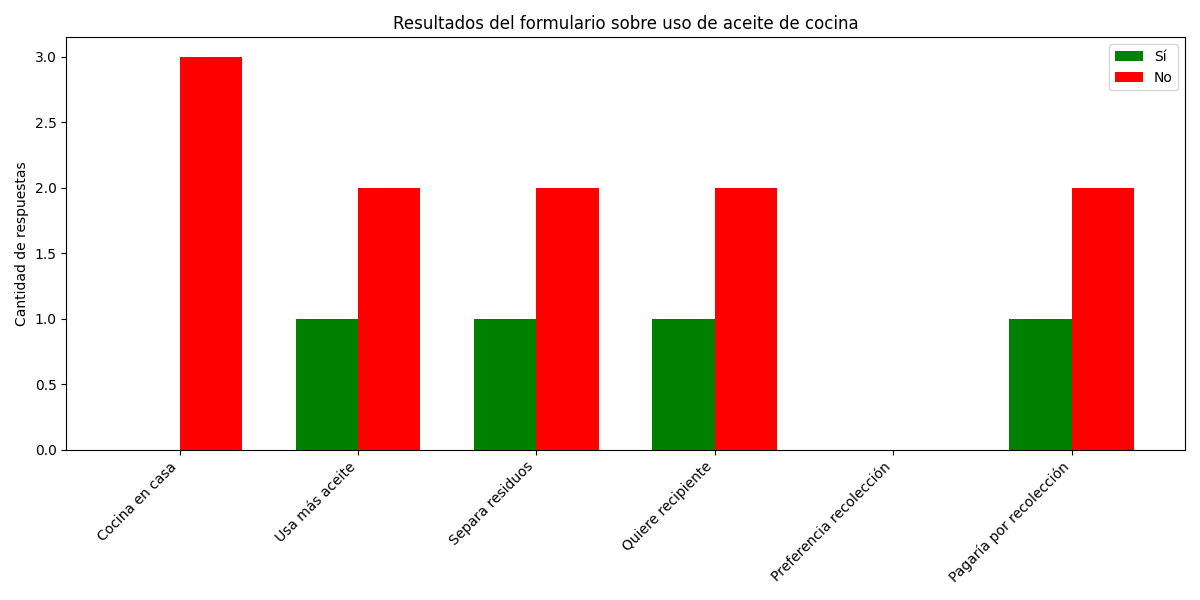
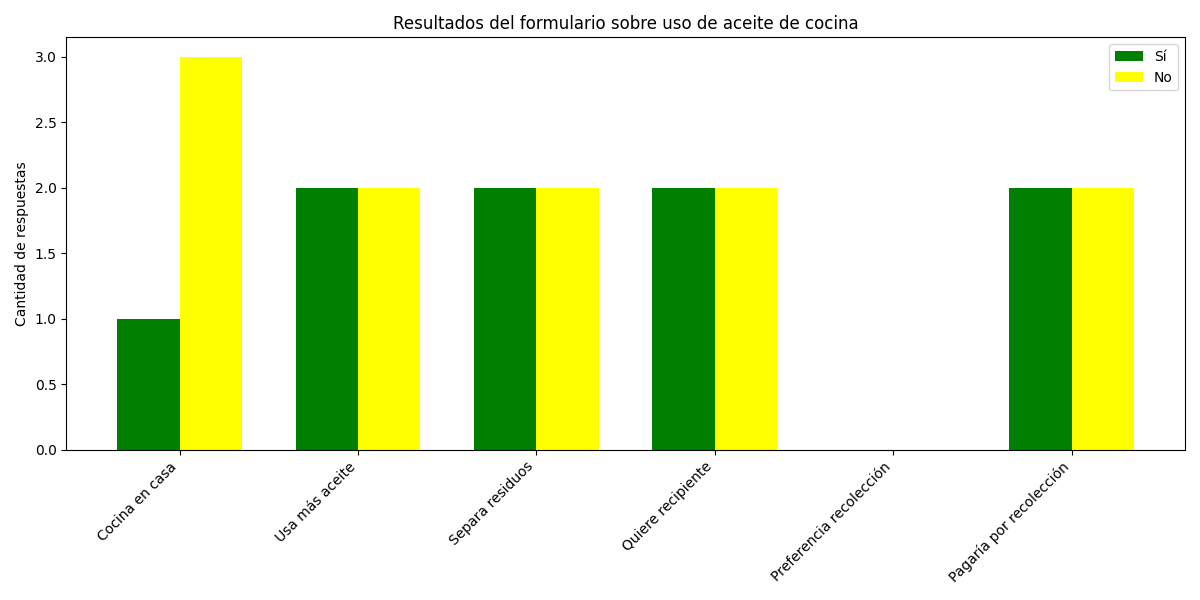
cambio estetico y de dimensiones graficos

diff --git a/py/grafico_barras.py b/py/grafico_barras.py
@@ -35,7 +35,7 @@ width = 0.35
 
 fig, ax = plt.subplots(figsize=(12, 6))
 barras_si1 = ax.bar(x1 - width/2, y1, width, label='Sí', color='green')
-barras_no1 = ax.bar(x1 + width/2, z1, width, label='No', color='red')
+barras_no1 = ax.bar(x1 + width/2, z1, width, label='No', color='yellow')
 ax.set_ylabel('Cantidad de respuestas')
 ax.set_title('Resultados del formulario sobre uso de aceite de cocina')
 ax.set_xticks(x1)
@@ -49,7 +49,7 @@ plt.close()
 
 fig, ax2 = plt.subplots(figsize=(12, 6))
 barras_si2 = ax2.bar(x2 - width/2, y2, width, label='Sí', color='green')
-barras_no2 = ax2.bar(x2 + width/2, z2, width, label='No', color='red')
+barras_no2 = ax2.bar(x2 + width/2, z2, width, label='No', color='yellow')
 ax2.set_ylabel('Cantidad de respuestas')
 ax2.set_title('Resultados del formulario sobre uso de aceite de cocina')
 ax2.set_xticks(x2)

diff --git a/py/g_circular.py b/py/g_circular.py
@@ -7,7 +7,7 @@ visitas = [resultados[0][0],resultados[0][1]]
 colores = ["#549C3C", "#FFD33B"]
 explode = (0.05, 0)  # Destaca ligeramente el primer segmento (Registrados)
 
-plt.figure(figsize=(6, 6))  # Tamaño del gráfico
+plt.figure(figsize=(5, 5))  # Tamaño del gráfico
 plt.pie(
     visitas,
     labels=visitantes,
